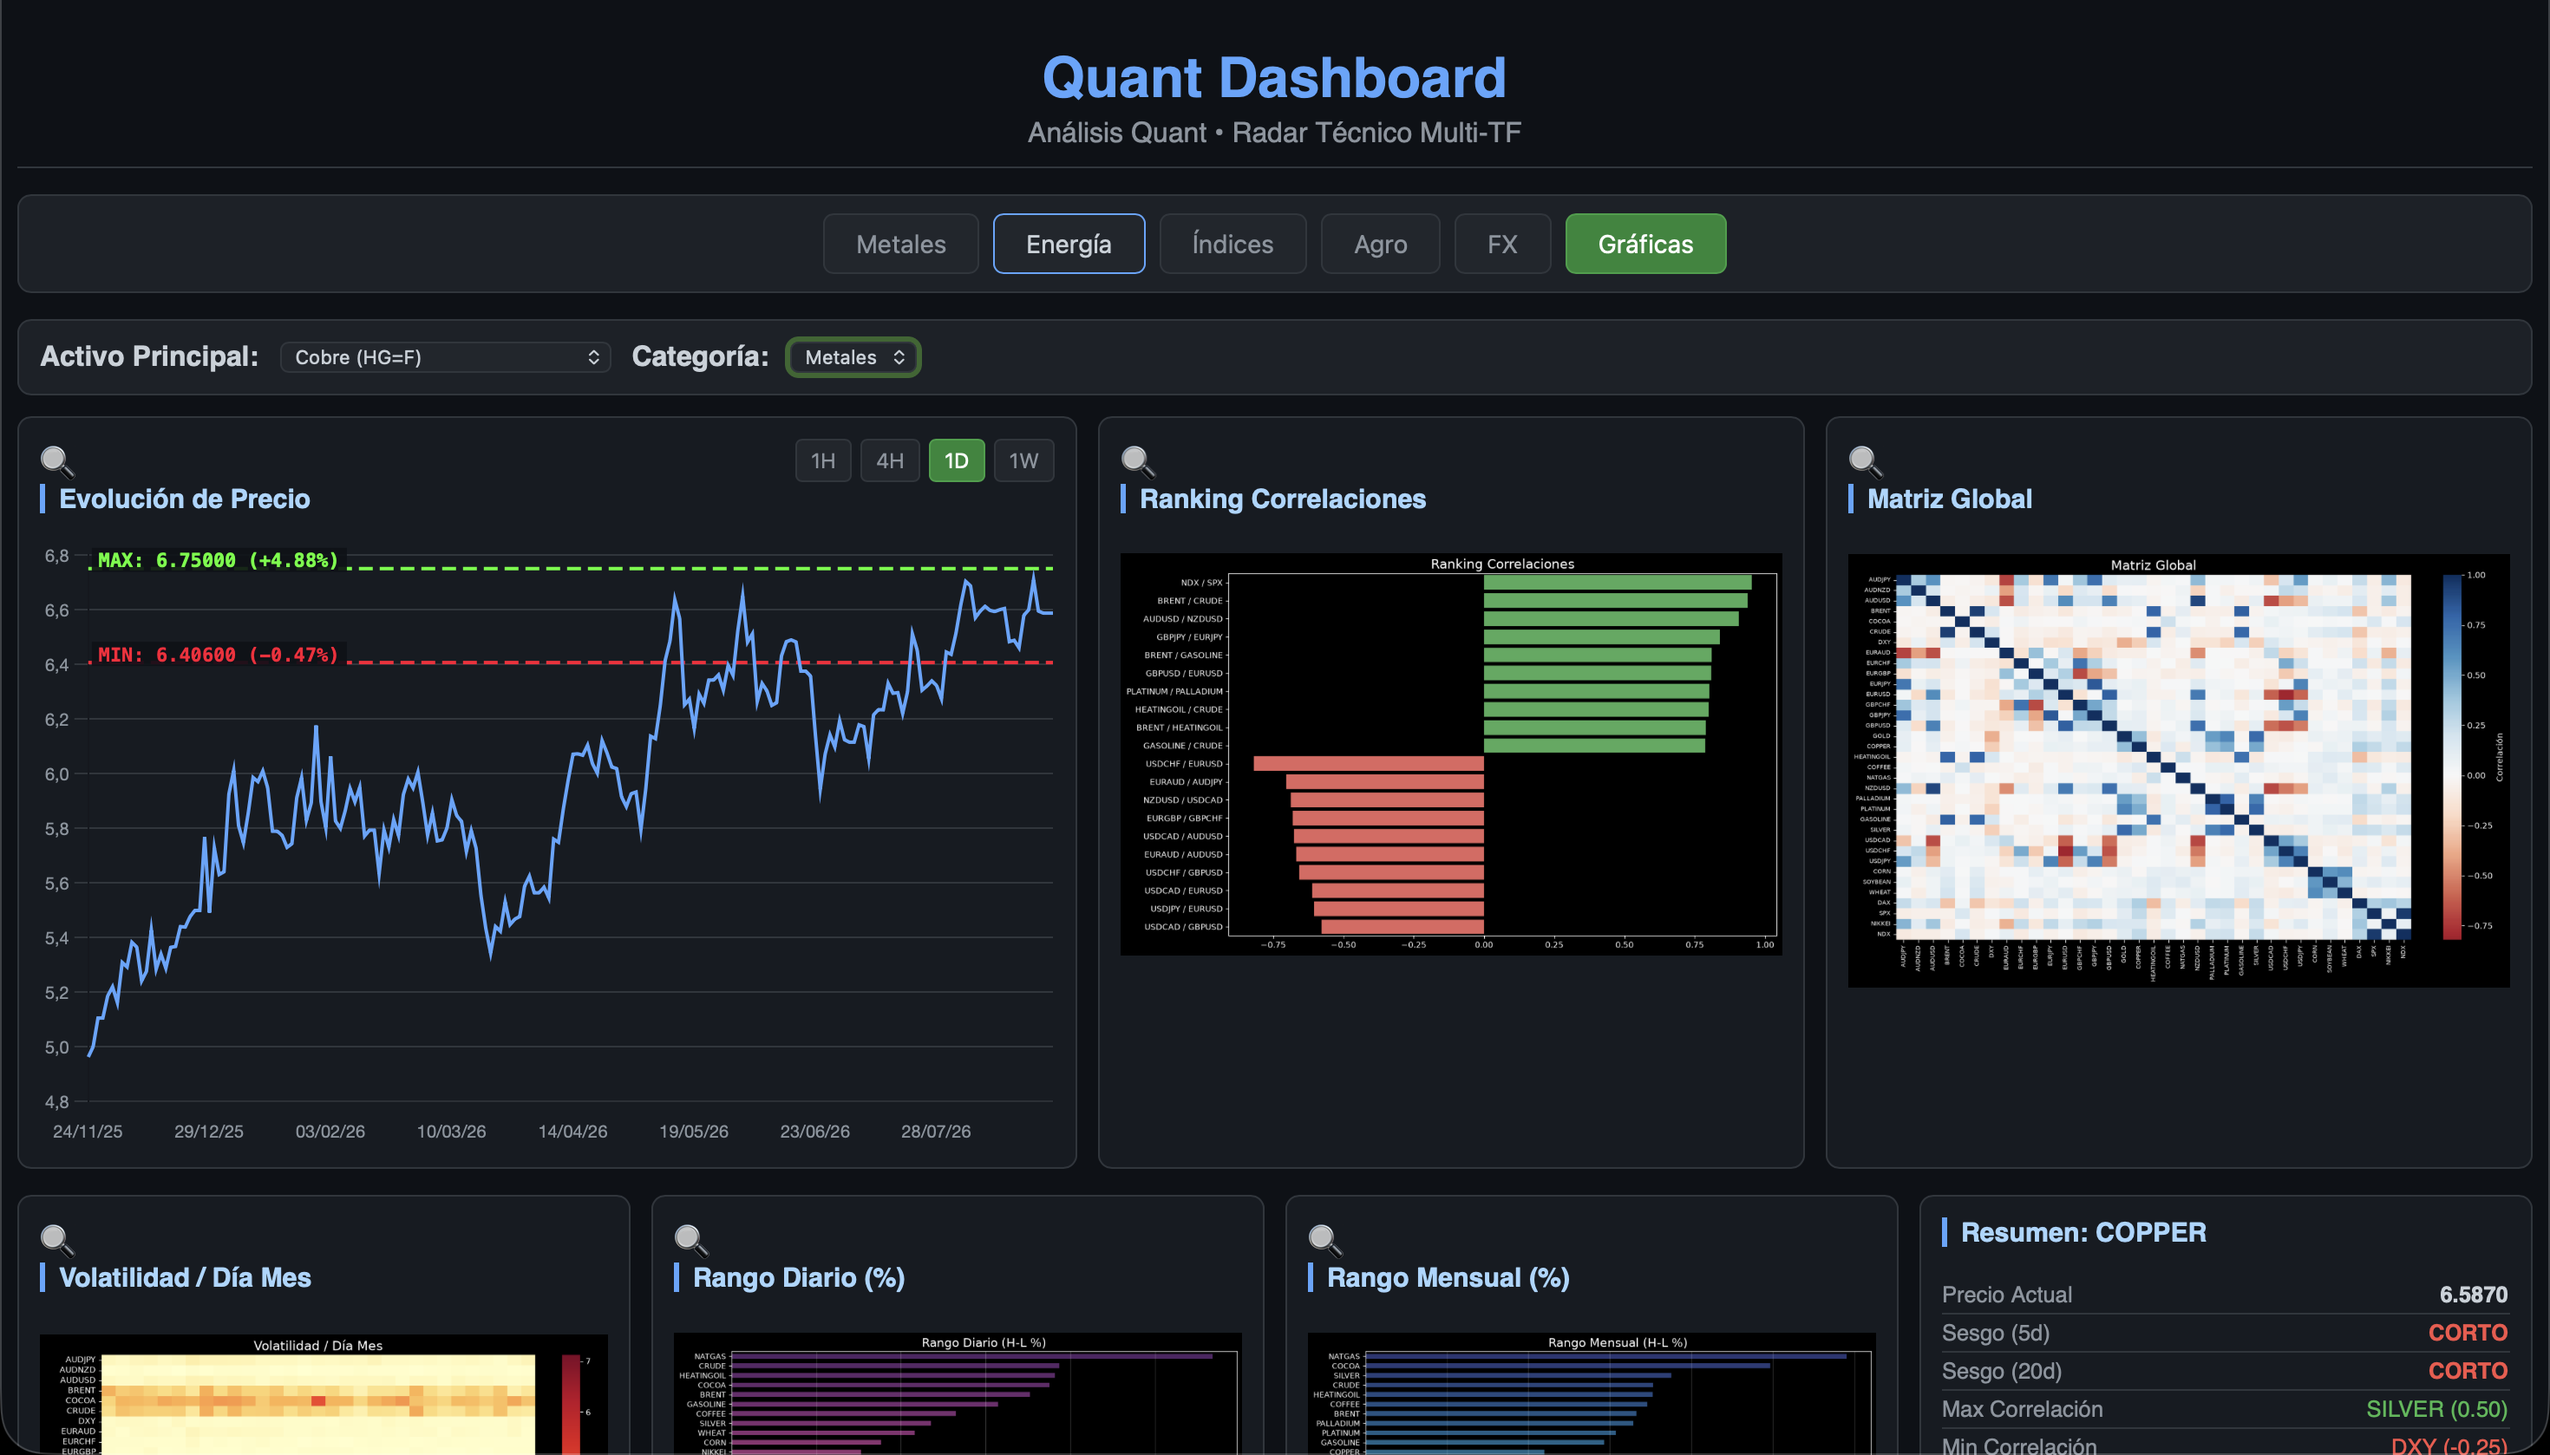
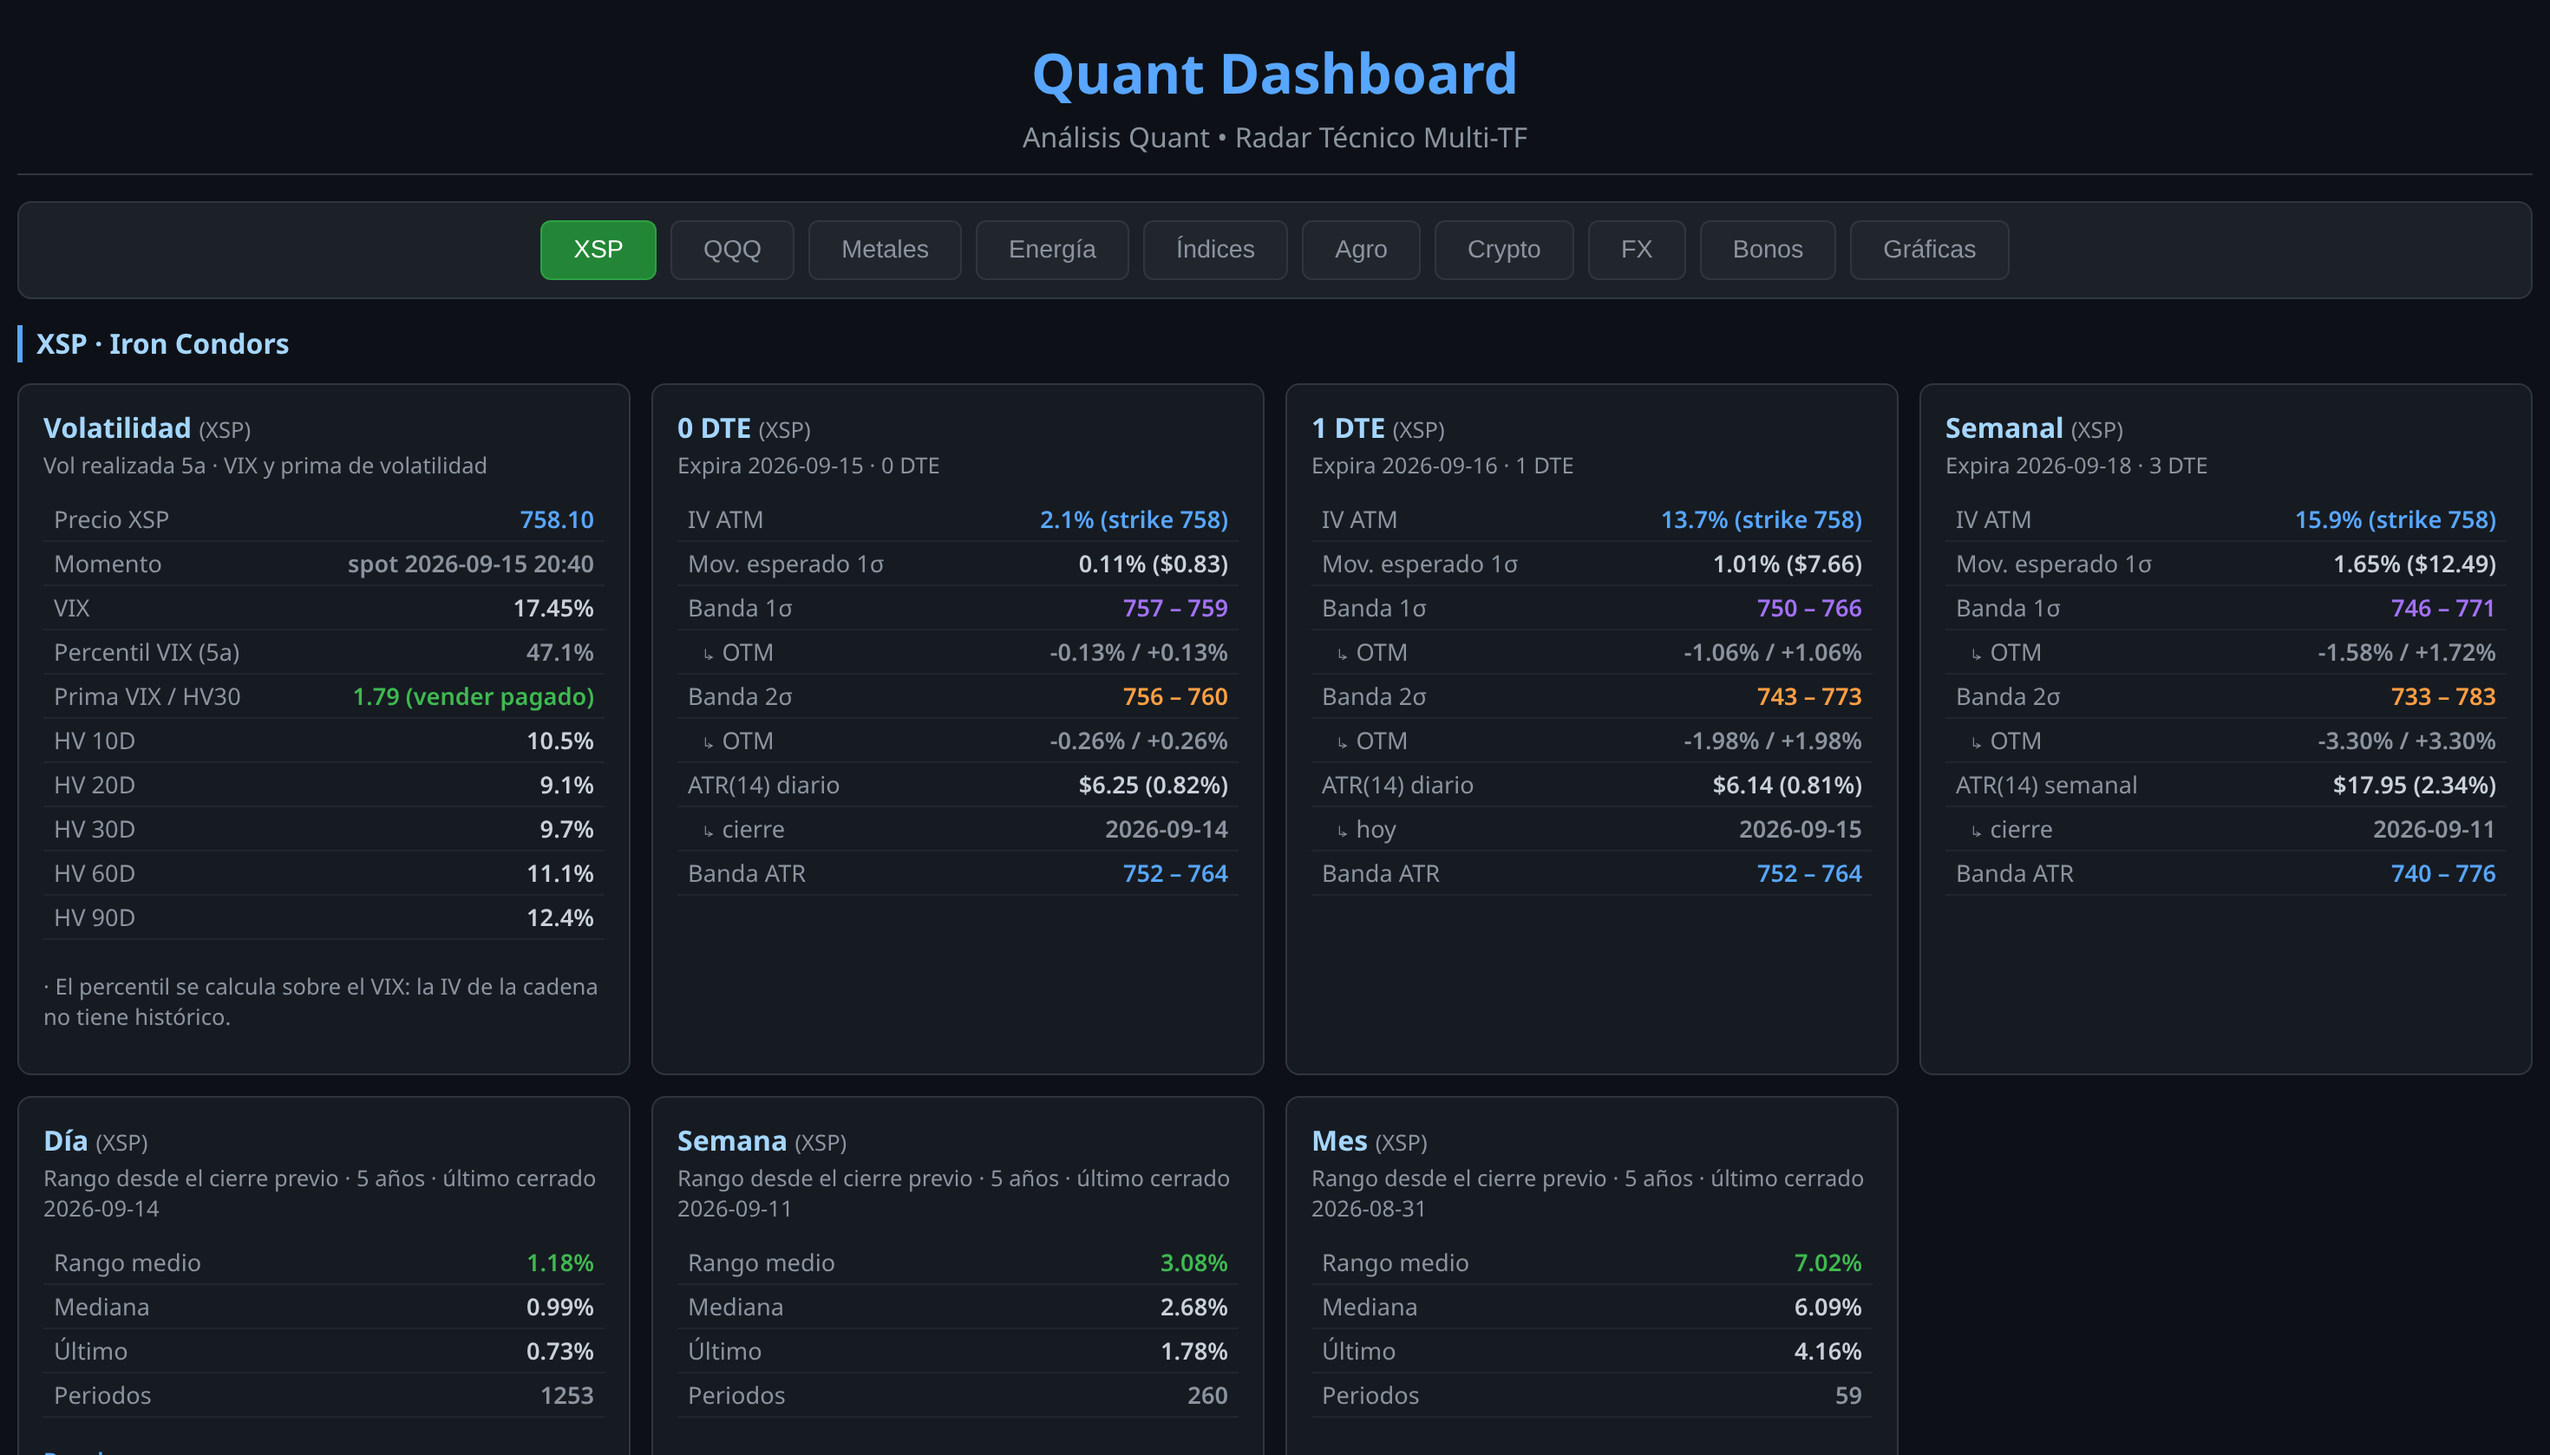
README y vista previa al día
El README describía el launcher viejo (generaba solo si faltaba el HTML) y no
mencionaba ni el ciclo de caché diario de los condores ni el script de la
sección FX suelta. La captura mostraba además una barra de navegación sin XSP ni
QQQ, anterior a las pestañas de iron condors; se sustituye por una de la pestaña
XSP, que es la de trabajo diario, y la leyenda lo dice.

diff --git a/README.md b/README.md
@@ -89,11 +89,24 @@ python3 -m venv .venv
 
 El resultado es `forex_dashboard.html`, un archivo único que puedes abrir en
 cualquier navegador o copiar a otra máquina. En Linux, `scripts/launch.sh`
-genera (si falta) y abre el dashboard.
+genera el dashboard **si el HTML no es de hoy** y lo abre: las cards de los
+condores enseñan la sesión en curso, así que abrir el fichero que quedó de la
+última vez da datos viejos. La generación tarda alrededor de minuto y medio —lo
+caro es el cálculo macro, no las descargas— y avisa por notificación de
+escritorio mientras trabaja.
 
-Las cards se auto-refrescan: si la caché en `data/` queda por detrás del
-último día hábil, se re-descarga sola al regenerar — no hace falta `--refresh`
-salvo para forzar una descarga completa.
+Las cards se auto-refrescan: los precios de los condores se re-descargarán si la
+caché en `data/` no llega a la sesión que toca (la de hoy en día hábil, la del
+viernes en fin de semana), y las demás secciones si la caché queda por detrás
+del último día hábil. No hace falta `--refresh` salvo para forzar una descarga
+completa.
+
+Para generar **solo la sección FX** —sin condores, macro ni bonos—, que es lo que
+`generar_dashboard.py` usa por dentro para la pestaña Gráficas:
+
+```bash
+.venv/bin/python scripts/forex_to_html.py   # → forex_solo_fx.html
+```
 
 ## API de FRED (opcional)
 
@@ -112,4 +125,7 @@ carry usa los últimos tipos de reserva verificados. El `.env` nunca se sube.
 
 ## Vista previa
 
-![Dashboard de correlaciones FX + macro](docs/screenshots/dashboard.png)
+![Pestaña XSP · Iron Condors del Quant Dashboard](docs/screenshots/dashboard.png)
+
+La captura enseña la pestaña **XSP · Iron Condors**, que es la de trabajo diario.
+La barra superior navega al resto de categorías.
